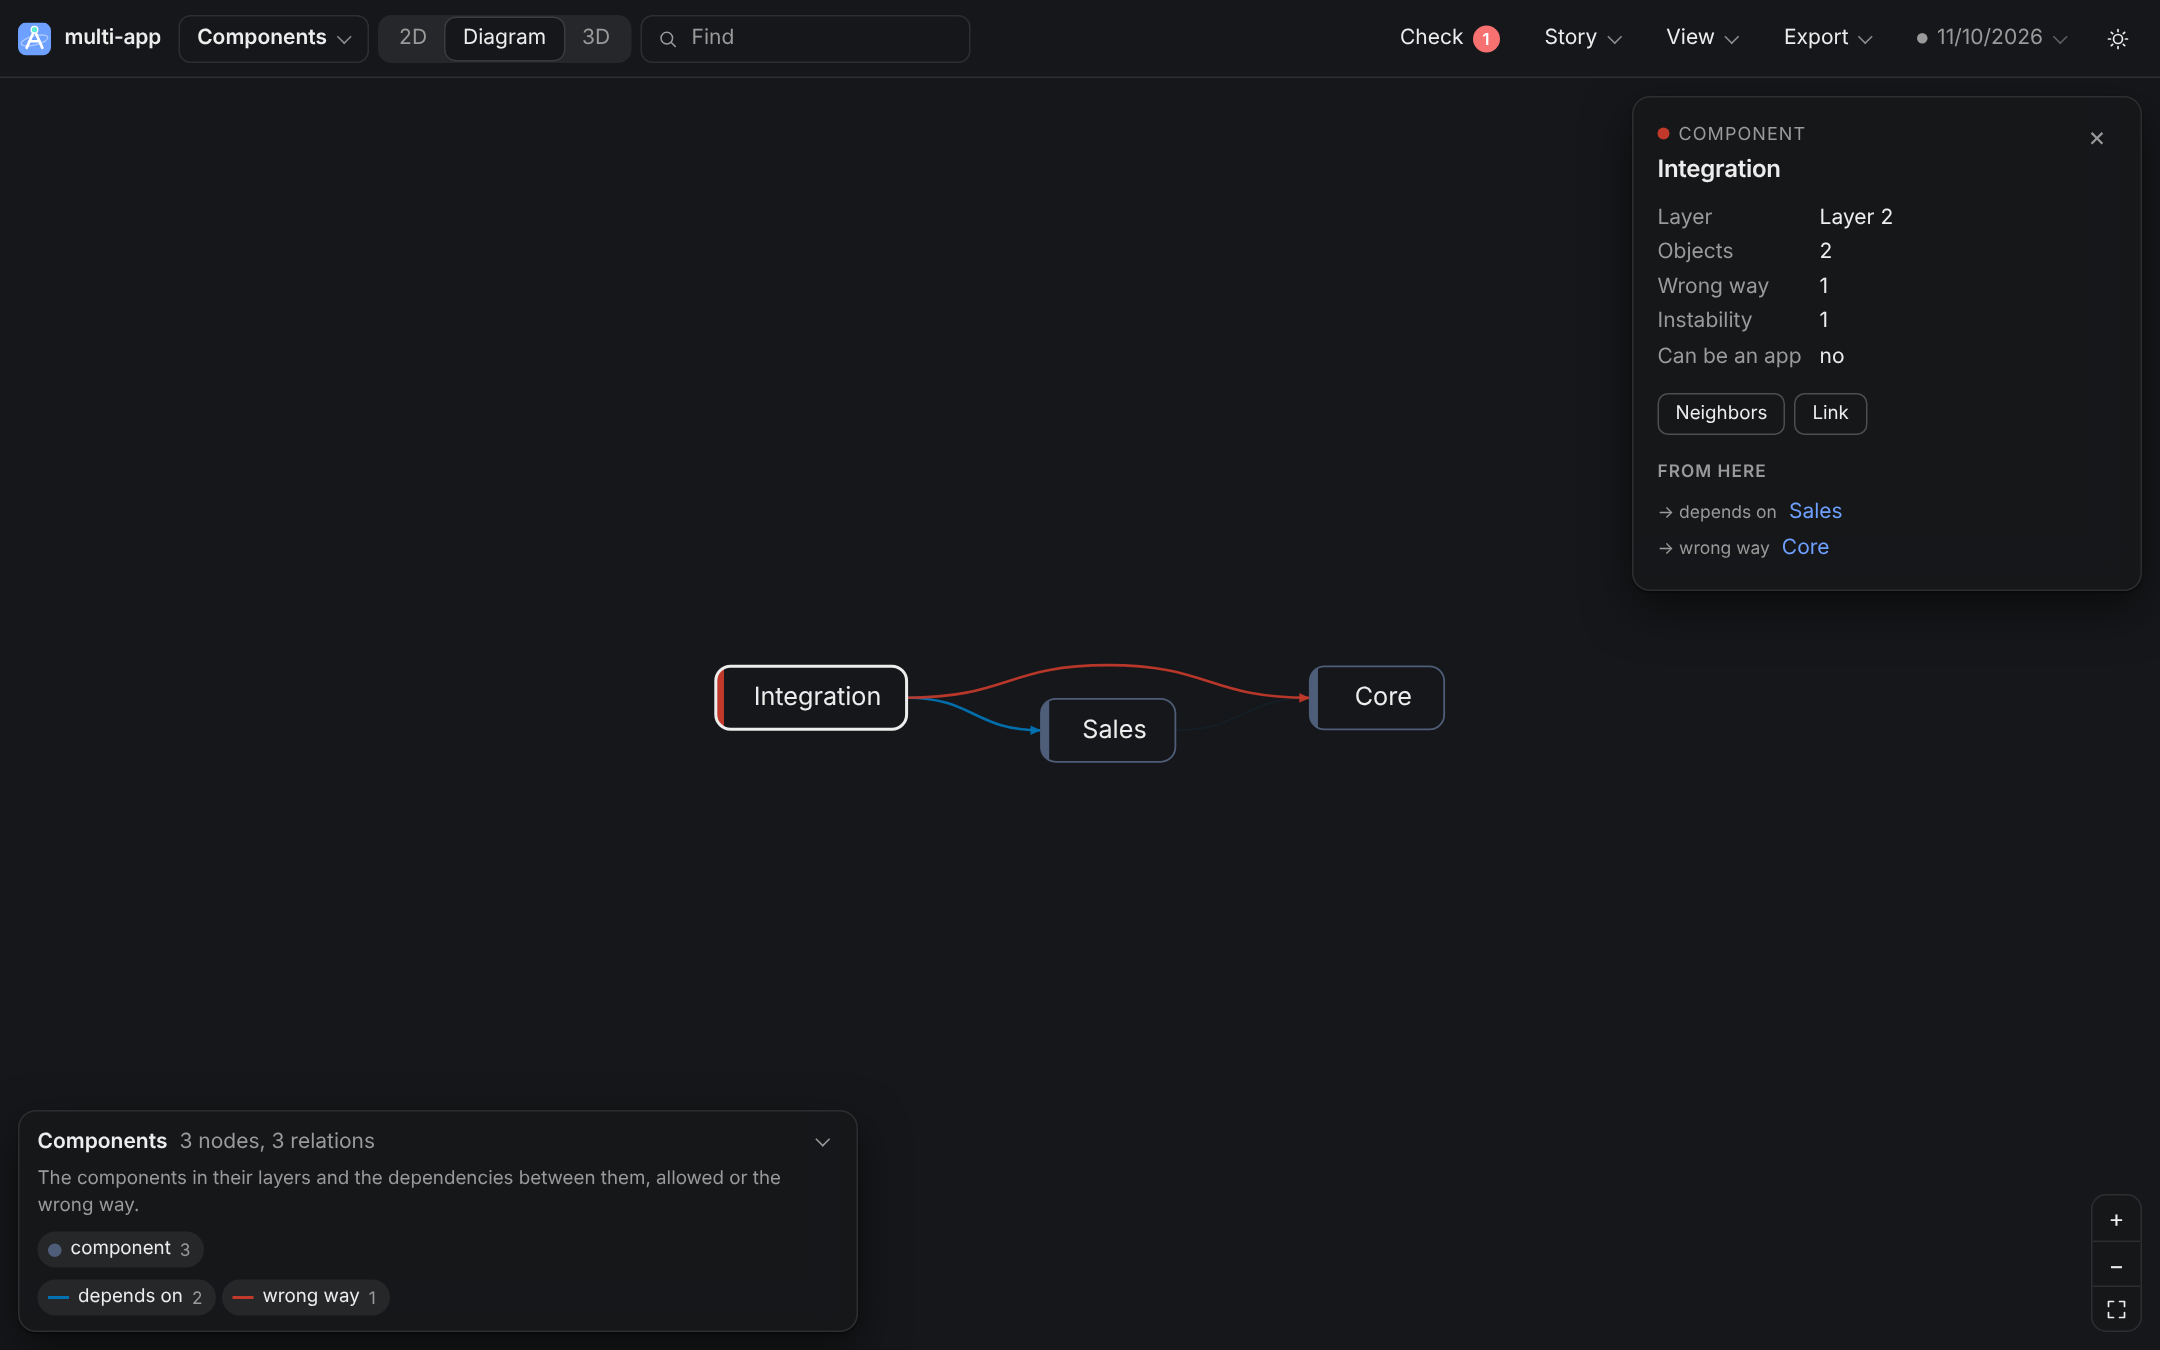
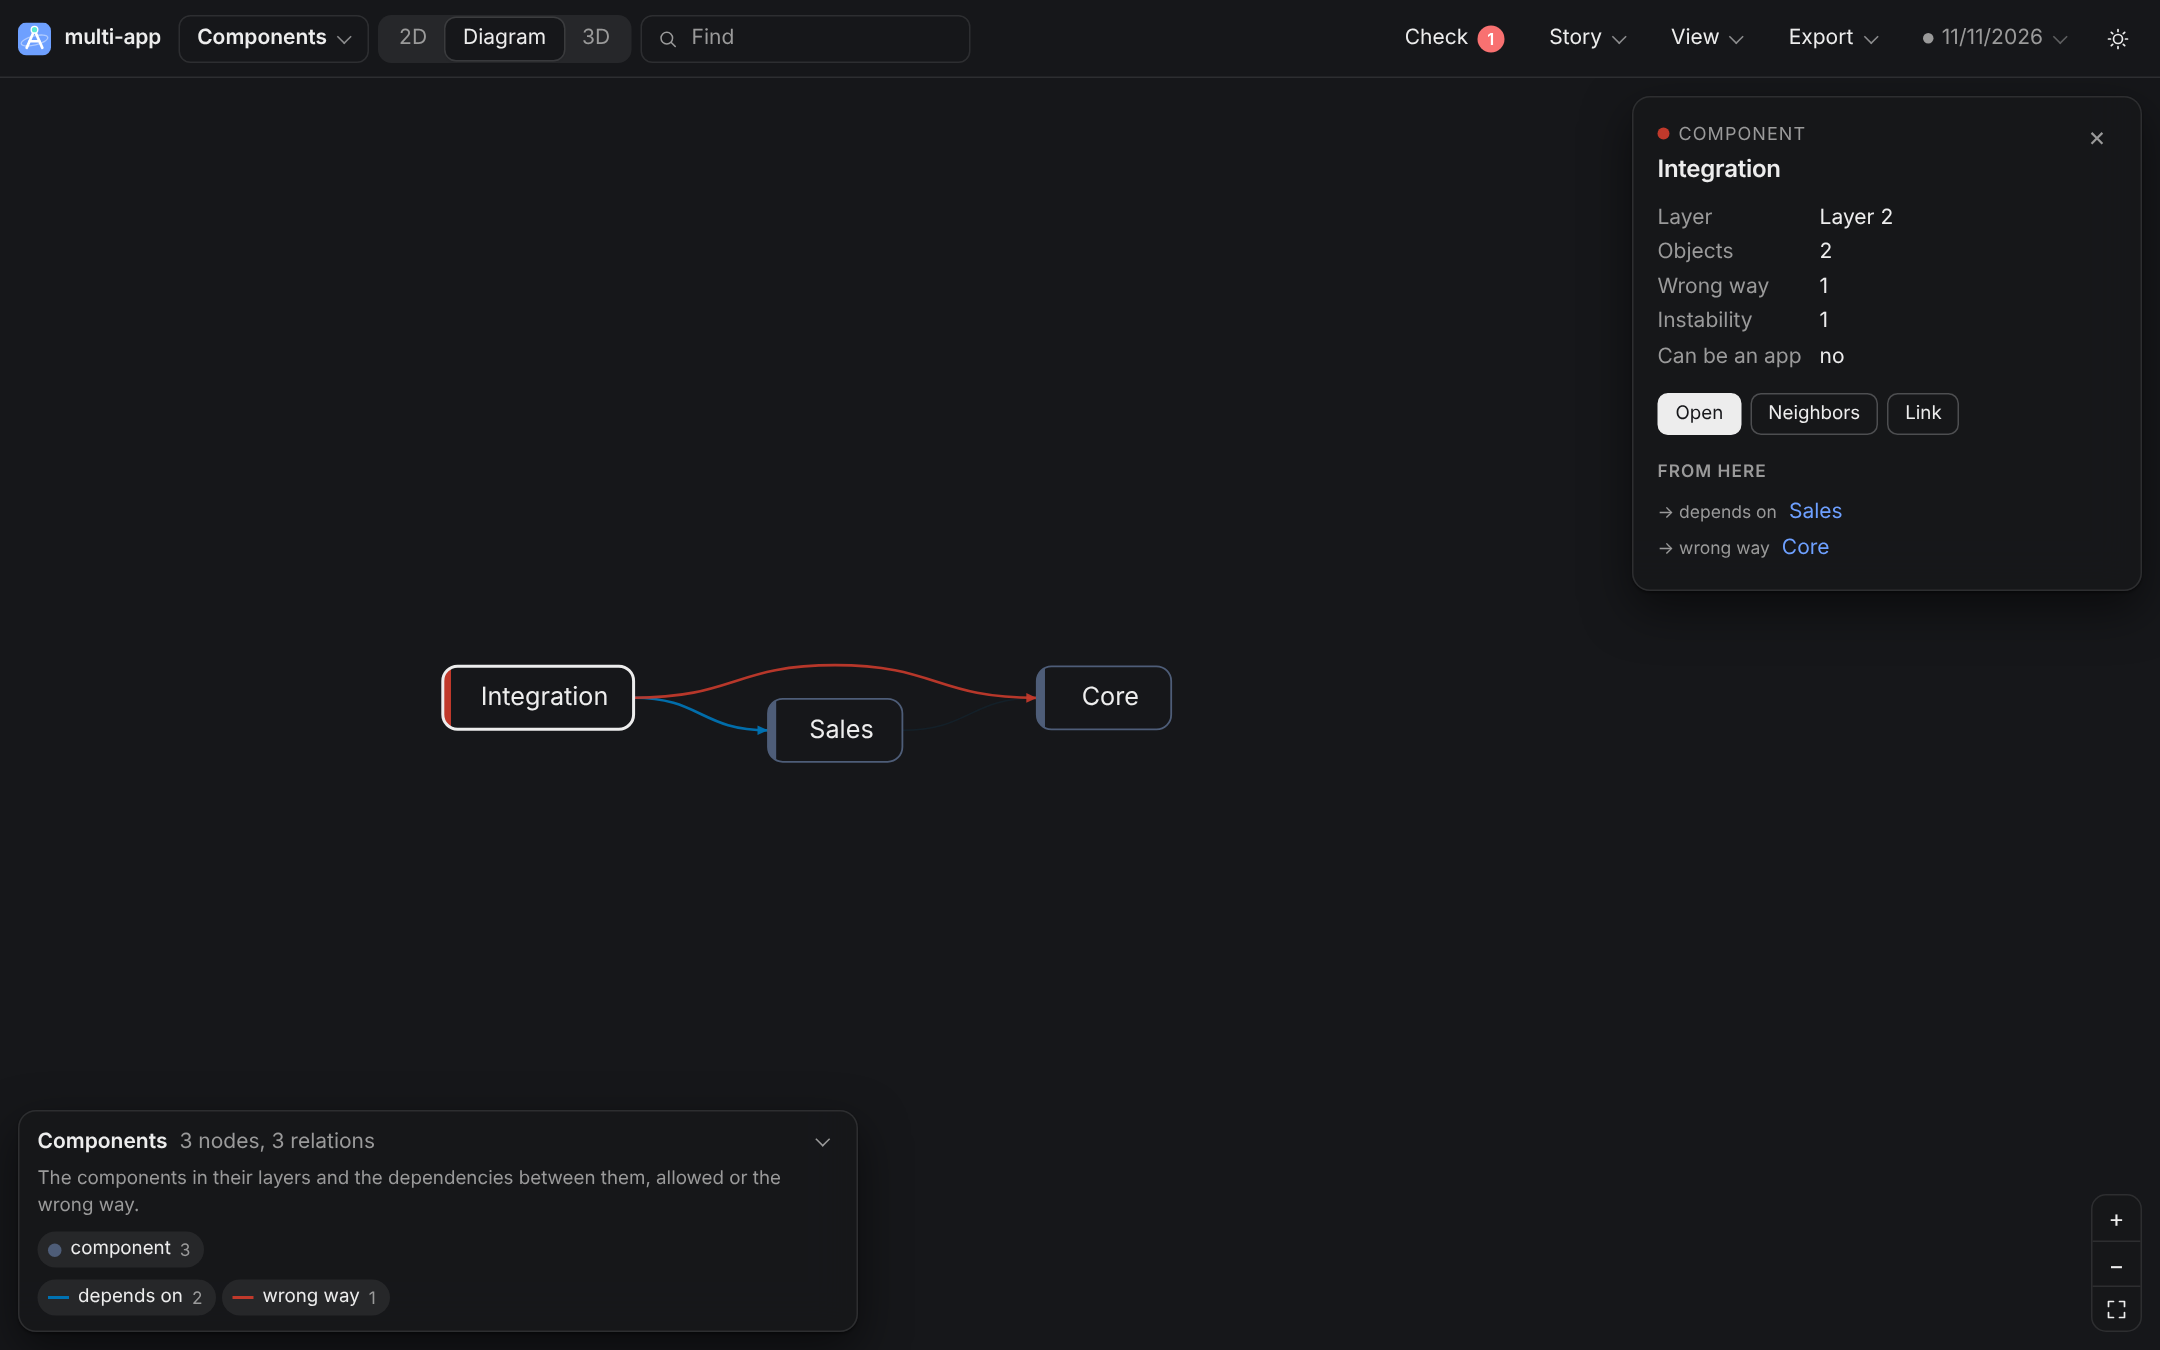
feat(view): the picture fits next to the card; the trail keeps its room
- The graph knows what floats on the window (the card of the selected
  node) and frames and centers the picture in the rest. The camera moves
  there without a jump, and only on a step, never under the cursor.
- In the toolbar the search gives way to the trail first; on narrow
  windows the project name and the parts in between give way too.
- An object whose inside an export leaves out has no Open button.
- Screenshots retaken, with the Recordings lens; the extension README
  says how to go into a node and what recordings add.

Claude-Session: https://claude.ai/code/session_01YMk4FFreDXWwbFRMXAcAfM

diff --git a/src/app/ui/graph.js b/src/app/ui/graph.js
@@ -592,6 +592,7 @@
 
   /** Moves the camera so that everything visible is in the window. */
   function frameOn(v) {
+    const free = freeOf(v);
     if (v.form === "diagram") {
       let left = Infinity;
       let right = -Infinity;
@@ -606,14 +607,22 @@
         bottom = Math.max(bottom, box.y + box.h / 2);
       }
       if (left === Infinity) left = right = top = bottom = 0;
-      v.camera.zoom = Math.min(1.4, (v.width - 48) / Math.max(right - left, 1), (v.height - 48) / Math.max(bottom - top, 1));
-      v.camera.x = -((left + right) / 2) * v.camera.zoom;
-      v.camera.y = -((top + bottom) / 2) * v.camera.zoom;
+      v.camera.zoom = Math.min(1.4, (free.width - 48) / Math.max(right - left, 1), (free.height - 48) / Math.max(bottom - top, 1));
+      v.camera.x = free.x - ((left + right) / 2) * v.camera.zoom;
+      v.camera.y = free.y - ((top + bottom) / 2) * v.camera.zoom;
       return;
     }
-    v.camera.zoom = Math.min(3, Math.min(v.width, v.height) / 2 / (extentOf(v) * 1.08 + 46));
-    v.camera.x = 0;
-    v.camera.y = 0;
+    v.camera.zoom = Math.min(3, Math.min(free.width, free.height) / 2 / (extentOf(v) * 1.08 + 46));
+    v.camera.x = free.x;
+    v.camera.y = free.y;
+  }
+
+  /** The part of the window nothing floats on (v.room: what is taken at each side), and where its middle is. */
+  function freeOf(v) {
+    const { left = 0, right = 0, top = 0, bottom = 0 } = v.room ?? {};
+    const width = Math.max(v.width - left - right, v.width / 3);
+    const height = Math.max(v.height - top - bottom, v.height / 3);
+    return { width, height, x: width < v.width - left - right + 1 ? (left - right) / 2 : 0, y: height < v.height - top - bottom + 1 ? (top - bottom) / 2 : 0 };
   }
 
   /** Draws the picture as it is now through a pen. */
@@ -829,10 +838,11 @@
    * @param scene { title, nodes: [{ label, group, color }], edges: [[from, to, kind, weight]], kinds: [{ kind, color, dash }], groups }
    * @param from the picture before this one (snapshot() of its graph): nodes that were in it start
    *   where they were and glide to their new places, and the camera moves on from where it stood
+   * @param room { left, right, top, bottom }: what floats on the window at each side; the picture fits in the rest
    * @param onInfo called with { hover, selected } (node indexes) when one changes
    * @param onOpen called with a node index on a double click
    */
-  function create(container, scene, { mode = "2d", from, onInfo = () => {}, onOpen = () => {} } = {}) {
+  function create(container, scene, { mode = "2d", from, room: taken, onInfo = () => {}, onOpen = () => {} } = {}) {
     const { nodes, edges, kinds } = scene;
     const canvas = document.createElement("canvas");
     canvas.className = "graph-canvas";
@@ -859,6 +869,9 @@
     let glide;
     // Nodes on their way from one layout to another: { from: [{ x, y, z }], start, duration }.
     let morph;
+    // What floats on the window at each side, and whether the camera is on its way to fit the picture in the rest.
+    let room = taken ?? {};
+    let following = true;
     // The camera on its way from one angle to another (2D to 3D and back).
     let turn;
     let hover = -1;
@@ -874,7 +887,7 @@
     const labels = nodes.map(({ label }) => shorten(label));
     const diagram = () => form === "diagram";
     /** The picture as it is now (see picture). */
-    const state = () => ({ nodes, edges, kinds, labels, visible, shown, form, points, boxes, routes: morph ? NO_ROUTES : routes, camera, width, height, hover, selected, highlight, rings, sizes, pinned, degree, neighbors, place: morph ? current : undefined });
+    const state = () => ({ nodes, edges, kinds, labels, visible, shown, form, points, boxes, routes: morph ? NO_ROUTES : routes, camera, width, height, room, hover, selected, highlight, rings, sizes, pinned, degree, neighbors, place: morph ? current : undefined });
 
     function connect() {
       for (const set of neighbors) set.clear();
@@ -950,11 +963,14 @@
       camera.y += y * 0.18;
       return false;
     }
-    function fit() {
+    /** The camera goes to where the picture fits, without a jump. */
+    function settle() {
       touched = false;
       glide = undefined;
+      following = true;
       redraw();
     }
+    const fit = settle;
 
     const project = (point, distance, view = camera) => projectOn(state(), point, distance, view);
     const radius = (index) => radiusOf({ sizes }, index);
@@ -996,8 +1012,11 @@
         }
         redraw();
       }
-      // Until someone moves the picture, the camera follows it, without a jump.
-      if (!touched && !glide && !follow()) redraw();
+      // Until someone moves the picture, the camera follows it to where it fits, without a jump.
+      if (!touched && !glide && following) {
+        if (!follow()) redraw();
+        else if (!morph && (diagram() || alpha <= 0.012)) following = false;
+      }
       const ratio = root.devicePixelRatio || 1;
       context.setTransform(ratio, 0, 0, ratio, 0, 0);
       draw.placed = paint(canvasPen(context));
@@ -1031,6 +1050,7 @@
       // The first picture stands at once; later the camera follows.
       if (!touched && !started) frameAll();
       started = true;
+      following = true;
       redraw();
     }
 
@@ -1180,6 +1200,7 @@
       if (!wanted.length) return;
       const unit = { ...camera, zoom: 1, x: 0, y: 0 };
       const distance = Math.max(extent() * 3, 400);
+      const free = freeOf(state());
       let left = Infinity;
       let right = -Infinity;
       let top = Infinity;
@@ -1197,8 +1218,8 @@
       // One node comes to the middle as large as the picture is, or large enough to read; several fill the window.
       const target = wanted.length === 1
         ? Math.min(most, Math.max(camera.zoom, diagram() ? 0.8 : 1))
-        : Math.max(0.05, Math.min(most, (width * 0.62) / Math.max(right - left, 1), (height * 0.56) / Math.max(bottom - top, 1)));
-      const to = { zoom: target, x: -((left + right) / 2) * target, y: -((top + bottom) / 2) * target };
+        : Math.max(0.05, Math.min(most, (free.width * 0.62) / Math.max(right - left, 1), (free.height * 0.56) / Math.max(bottom - top, 1)));
+      const to = { zoom: target, x: free.x - ((left + right) / 2) * target, y: free.y - ((top + bottom) / 2) * target };
       touched = true;
       if (!animate) {
         Object.assign(camera, to);
@@ -1263,8 +1284,7 @@
         // The camera turns to its new angle, and the nodes glide to their new places.
         turn = { from: { yaw: camera.yaw, pitch: camera.pitch }, to: { yaw: flat ? 0 : 0.6, pitch: flat ? 0 : 0.35 }, start: performance.now(), duration: 520 };
         if (!flat) for (const point of points) if (Math.abs(point.z) < 1) point.z = (next() - 0.5) * LINK * 2;
-        touched = false;
-        glide = undefined;
+        settle();
         if (diagram()) arrange();
         else reheat(0.7);
         arrive(before);
@@ -1278,8 +1298,7 @@
         const before = depart();
         connect();
         arrange();
-        touched = false;
-        glide = undefined;
+        settle();
         if (diagram()) arrive(before.map((start, index) => (start && boxes[index] ? start : undefined)));
         else reheat(0.45);
       },
@@ -1315,10 +1334,15 @@
         pinned.clear();
         points = seed(nodes, scene.groups?.length ?? 1);
         arrange();
-        touched = false;
-        glide = undefined;
+        settle();
         alpha = 1;
         arrive(before);
+      },
+      /** What floats on the window at each side; with follow, the picture moves to fit in the rest. */
+      room(value, { follow: move = false } = {}) {
+        const changed = ["left", "right", "top", "bottom"].some((side) => (value?.[side] ?? 0) !== (room[side] ?? 0));
+        room = value ?? {};
+        if (changed && move && !touched) settle();
       },
       /** Where every node is drawn and where the camera stands, for the picture that follows this one (see `from`). */
       snapshot() {

diff --git a/src/app/ui/atlas.css b/src/app/ui/atlas.css
@@ -68,7 +68,7 @@ button { cursor: pointer; }
   min-width: 0;
   z-index: 3;
 }
-.brand { display: inline-flex; align-items: center; gap: 9px; margin-right: 6px; min-width: 0; }
+.brand { display: inline-flex; align-items: center; gap: 9px; margin-right: 6px; min-width: 0; flex: 0 1 auto; }
 .brand b { font-weight: 600; letter-spacing: -0.01em; white-space: nowrap; overflow: hidden; text-overflow: ellipsis; max-width: 22ch; }
 .logo { display: inline-grid; flex: none; }
 .logo svg { width: 22px; height: 22px; }
@@ -107,13 +107,14 @@ button { cursor: pointer; }
 /* Where the view is, after the lens: Core › Purchase Request */
 #trail { display: flex; align-items: center; min-width: 0; flex: 0 1 auto; font-size: 13px; white-space: nowrap; }
 #trail[hidden] { display: none; }
-#trail button, #trail b { height: 28px; padding: 0 7px; border: 0; border-radius: 7px; background: none; overflow: hidden; text-overflow: ellipsis; max-width: 24ch; }
-#trail button { color: var(--muted); flex: 0 1 auto; }
+#trail button, #trail b { height: 28px; padding: 0 7px; border: 0; border-radius: 7px; background: none; line-height: 28px; overflow: hidden; text-overflow: ellipsis; max-width: 28ch; min-width: 4ch; }
+#trail button { color: var(--muted); flex: 0 3 auto; }
 #trail button:hover { background: var(--hover); color: var(--text); }
-#trail b { display: inline-flex; align-items: center; font-weight: 600; flex: 0 2 auto; }
-#trail .up { order: -1; flex: none; width: 26px; padding: 0; font-size: 17px; line-height: 1; color: var(--text); }
+#trail b { font-weight: 600; flex: 0 1 auto; }
+#trail .up { flex: none; width: 26px; min-width: 26px; padding: 0; font-size: 17px; line-height: 26px; color: var(--text); }
 #trail button:not(.up)::before, #trail b::before { content: "›"; margin-right: 9px; color: var(--muted); opacity: 0.7; font-weight: 400; }
 #trail .up + button::before, #trail .up + b::before { content: none; }
+#trail:not([hidden]) ~ .search { min-width: 36px; }
 .tool.icon { width: 32px; padding: 0; justify-content: center; }
 .tool svg, .search svg, #zoom svg { width: 16px; height: 16px; fill: none; stroke: currentColor; stroke-width: 1.7; stroke-linecap: round; stroke-linejoin: round; }
 .count {
@@ -148,7 +149,8 @@ button { cursor: pointer; }
   border: 1px solid var(--border);
   border-radius: 8px;
   color: var(--muted);
-  flex: 0 1 220px;
+  /* The search gives way first when the trail needs the room. */
+  flex: 0 10000 220px;
   min-width: 90px;
 }
 .search:focus-within { border-color: var(--focus); color: var(--text); }
@@ -367,8 +369,16 @@ code { font-family: var(--mono); font-size: 0.92em; padding: 1px 4px; border-rad
 #toast.show { opacity: 1; transform: translate(-50%, 0); }
 
 /* ---------------------------------------------------------- small windows */
+/* Where the view is matters more than the name of the project. */
+@media (max-width: 1280px) {
+  #bar:has(#trail:not([hidden])) .brand b { display: none; }
+}
 @media (max-width: 900px) {
   .brand b { display: none; }
+  #trail button:not(.up) { display: none; }
+  #trail b::before { content: none; }
+  #trail b { min-width: 10ch; }
+  #bar { overflow-x: auto; }
   .search { flex-basis: 130px; }
   .tool { padding: 0 8px; }
 }

diff --git a/src/app/ui/atlas.js b/src/app/ui/atlas.js
@@ -203,6 +203,10 @@
     if (!atlas.lenses.some(({ id }) => id === state.lens)) state.lens = atlas.lenses[0].id;
 
     const next = await sceneFor();
+    // The card of the selected node floats on the right: the picture fits next to it.
+    const stage = $("#stage").clientWidth;
+    const room = { right: state.sel && next.place.has(state.sel) && stage > 680 ? Math.min(340, stage - 24) + 24 : 0 };
+    const moved = !graph || next.key !== applied.key || applied.form !== state.form;
     if (!graph || next.key !== applied.key) {
       // What stays in the picture stays where it is; the rest comes and goes around it.
       const before = graph?.snapshot();
@@ -211,6 +215,7 @@
       graph = BCA_GRAPH.create($("#graph"), scene, {
         mode: state.form,
         from: before,
+        room,
         onInfo: ({ selected }) => {
           const id = selected >= 0 ? scene.entries[selected].node.id : "";
           if (id === state.sel) return;
@@ -239,6 +244,7 @@
       if (applied.show !== undefined || state.hide || state.off) graph.show(flags.nodes, flags.kinds.length ? flags.kinds : new Uint8Array(1).fill(1));
       applied.show = showKey;
     }
+    graph.room(room, { follow: moved });
     graph.size(S.sizeValues(scene, found, state.size, flags.degree));
     // Check: a ring in the color of the worst finding on a node.
     graph.rings(state.check ? S.rings(scene, found) : undefined);

diff --git a/vscode/README.md b/vscode/README.md
@@ -29,7 +29,11 @@ graph, and the toolbar decides what you see of it:
 - **Find** lights up what you look for, **Check** puts the findings on the
   nodes they are about;
 - click a node for what it is, its findings with the fix, and its
-  relations; **Go to source** opens its line.
+  relations; **Go to source** opens its line;
+- double-click to go into it: an app, a component, or a namespace opens to
+  its objects, an object to its procedures. A trail next to the lens says
+  where you are, and every part of it is one click back. Nothing jumps:
+  what stays in the picture stays where it is.
 
 There are no pages, no tabs, and no lists to learn.
 
@@ -91,6 +95,17 @@ With process tests in the project, BC Atlas lets agents with the roles and
 permission sets of your company perform them, step by step, from the source.
 The graph shows who performs what, who is blocked and by which missing
 permission, and who can do what they must not.
+
+## What really runs in Business Central
+
+![The Recordings lens: a channel, two recorded processes, and the pages, codeunits, and tables each one runs through and changes](marketing/screenshots/recordings.png)
+
+The source says what can happen; a recording says what does. With
+[BC Atlas Sync](https://github.com/SchulzOli/BC-Atlas/blob/main/plugins/sync/README.md)
+set up, every process recorded in Business Central is a node of the same
+graph: the objects it runs through, the tables it changes, and whether it is
+synced into the project or waits for it. Plugins add lenses, findings, and
+stories of their own in the same way.
 
 ## Right where you code
 

diff --git a/CHANGELOG.md b/CHANGELOG.md
@@ -67,8 +67,9 @@ follows [Semantic Versioning](https://semver.org/).
   **See in** on the card of a node lists the other lenses it is in and
   changes the lens around it. A node that is in the picture before and
   after a step stays where it is; between 2D, Diagram, and 3D the nodes
-  glide and the camera turns; the Back and Forward keys of a browser follow
-  every step. Keys: `[` `]` the lens before and after, `Backspace` one step
+  glide and the camera turns; the picture fits next to the card of the
+  selected node, not under it; the Back and Forward keys of a browser
+  follow every step. Keys: `[` `]` the lens before and after, `Backspace` one step
   up. `bca view --inside` takes an app, a component, or a namespace too.
 - **Plugins add to the graph.** The new contribution `atlas` lets a plugin
   put nodes, relations, lenses, findings, and stories into the one graph;

diff --git a/docs/vscode.md b/docs/vscode.md
@@ -59,7 +59,8 @@ Nothing jumps. A node that is in the picture before and after a step stays
 where it is, and the rest comes and goes around it: when the lens changes,
 when you go into a component or come back, when the source changes. Between
 2D, Diagram, and 3D the nodes glide to their new places and the camera
-turns. Every step to another place (a lens, something you went into, a
+turns. The picture fits next to the card of the selected node, not under
+it. Every step to another place (a lens, something you went into, a
 story) is one the **Back** and **Forward** keys of a browser take back and
 forth; in an exported file the address changes with it. With "reduce
 motion" set in the operating system, the next picture stands at once.
